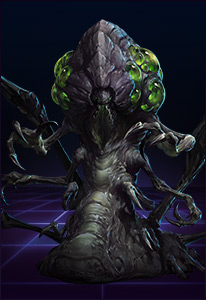
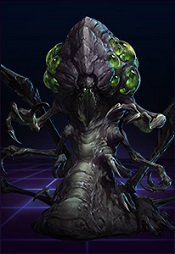
starting on HeroBuild page

diff --git a/HomePage.html b/HomePage.html
@@ -1,17 +1,17 @@
 <!-- Set up display for filter -->
 
-  <!-- declare space for filter section -->
-  <div class="row center">
-    <div class="filter">Filter Type:</div>
+<!-- declare space for filter section -->
+<div class="row center">
+  <div class="filter">Filter Type:</div>
 
-    <!-- Icon list with attached filters for main page hero display -->
-    <div class="filter">
-      <img ng-click="hots.addRole($event)" id="Warrior" class="iconFilter " src="./Images/WarriorIcon.jpg" alt=""/>
-      <img ng-click="hots.addRole($event)" id="Assassin" class="iconFilter " src="./Images/AssassinIcon.jpg" alt=""/>
-    <img  ng-click="hots.addRole($event)" id="Support" class="iconFilter " src="./Images/SupportIcon2.jpg" alt=""/>
-    <img ng-click="hots.addRole($event)" id="Specialist" class="iconFilter " src="./Images/SpecialistIcon.jpg" alt=""/>
-    </div>
+  <!-- Icon list with attached filters for main page hero display -->
+  <div class="filter">
+    <img ng-click="hots.addRole($event)" id="Warrior" class="iconFilter " src="./Images/WarriorIcon.jpg" alt="" />
+    <img ng-click="hots.addRole($event)" id="Assassin" class="iconFilter " src="./Images/AssassinIcon.jpg" alt="" />
+    <img ng-click="hots.addRole($event)" id="Support" class="iconFilter " src="./Images/SupportIcon2.jpg" alt="" />
+    <img ng-click="hots.addRole($event)" id="Specialist" class="iconFilter " src="./Images/SpecialistIcon.jpg" alt="" />
   </div>
+</div>
 
 
 

diff --git a/HeroBuild.html b/HeroBuild.html
@@ -1,16 +1,27 @@
-<div class="container" >
-  <div class="row">
+<div class="container">
+  <div ng-repeat="hero in hots.heroes" class="row">
 
     <div class="col s5 offset-s1">
       <div class="">
-        <img src="{{hots.heroes.icon}}" />
+        <div class="row">
+          <div class="card hover" style="background-image: {{hero.icon}}">
+            <div class="card-content white-text">
+              <span class="card-title">Card Title</span>
+              <p>I am a very simple card. I am good at containing small bits of information. I am convenient because I require little markup to use effectively.</p>
+            </div>
+            <div class="card-action">
+              <a href="#">This is a link</a>
+              <a href="#">This is a link</a>
+            </div>
+          </div>
+        </div>
       </div>
     </div>
-
-
-
-
   </div>
+
+
+
+
 </div>
 
 

diff --git a/HoTSFactory.js b/HoTSFactory.js
@@ -1,0 +1,28 @@
+angular.module("HeroesOfTheStormApp").factory("HeroesFactory", [function() {
+  function returnFilteredHeroes() {
+    return function (hero, roleList) {
+        for (var j = 0; j < roleList.length; j++) {
+          if (hero.role == roleList[j]) {
+            return true
+          }
+        }
+
+      return false
+    }
+  }
+  function getHeroesByDifficulty() {
+    return function (hero, roleList) {
+        for (var j = 0; j < roleList.length; j++) {
+          if (hero.role == roleList[j]) {
+            return true
+          }
+        }
+
+      return false
+    }
+  }
+  return {
+    getFilteredHeroes: returnFilteredHeroes,
+    getHeroesByDifficulty: getHeroesByDifficulty
+  };
+}])

diff --git a/HoTS.css b/HoTS.css
@@ -28,10 +28,7 @@ body {
 		}
 /*===========================================================================*/
 /*End Hexagon*/
-/*===========================================================================*/
-/*CSS changes for NavBar*/
 
-/*End of Nav*/
 /*===========================================================================*/
 /*CSS landing page*/
 
@@ -63,8 +60,8 @@ body {
   border-radius: 7px;
   transform: translateY(150%);
 }
-
 /*End of Landing Page*/
+
 /*===========================================================================*/
 /*CSS Home Page*/
 

diff --git a/index.html b/index.html
@@ -55,17 +55,6 @@
 
 
 
-  <!-- Search Box -->
-  <!-- <div class="">
-        <form class="" role="search">
-          <div class="form-group">
-            <input type="text" class="form-control" placeholder="Search">
-          </div>
-          <button type="submit" class="btn btn-default">
-            <span class="glyphicon glyphicon-search" aria-hidden="true"></span>
-          </button>
-        </form>
-      </div> -->
   <!-- End NavBar -->
 
   <!-- =================================================================================== -->

diff --git a/LandingPage.html b/LandingPage.html
@@ -1,6 +1,6 @@
 <div style="color: white; height: 100%; position: relative">
+  <!-- background img -->
   <img src="http://www.tacticalgaming.net/hq/news/wp-content/uploads/2016/01/News-Team-Image-HOTS-21.jpg" class="responsive-img"/>
-
   <div class="text-center landingWelcome center-block">Welcome</div>
 
   <div class="text-center landingText center-block">
